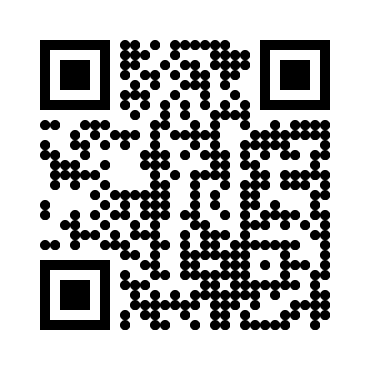
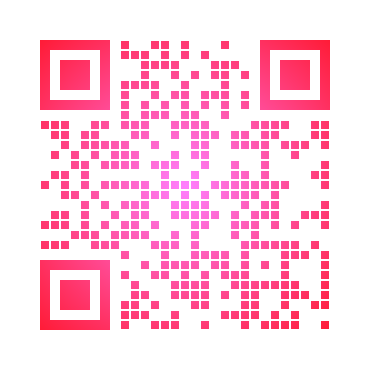
color qrcode

diff --git a/qr_code_color.py b/qr_code_color.py
@@ -1,0 +1,51 @@
+"""
+Just an quick implementation for a fully private QR code generator.
+"""
+
+import qrcode
+from string import punctuation
+
+qr = qrcode.QRCode(
+    version=1,
+    error_correction=qrcode.constants.ERROR_CORRECT_L,
+    box_size=10,
+    border=4,
+)
+
+print('Text to QR-tify:')
+input_data = input()
+qr.add_data(input_data)
+qr.make(fit=True)
+print('select colors:\n(1)QR Code Color\n(2)Background color')
+
+
+
+colors = ['pink','orange','red','blue','green','grey','black','white','mediumvioletred','tomato','brown','mediumseagreen','darkslategray','indigo','darksalmon','cyan','palevioletred','darkcyan','firebrick','darkolivegreen','forestgreen','darkslateblue','olive','greenyellow','lime','wheat','gold']
+available = ', '.join(sorted(colors)).upper()
+
+print(f'Color ideas: {available}.')
+
+print('\nSelect code color:')
+qr_color = input().lower()
+# while qr_color not in colors:
+    # qr_color = input()
+
+print('\nSelect background color:')
+qr_back = input().lower()
+# while qr_back not in colors:
+#     qr_back = input()
+
+# create img file
+img = qr.make_image(fill_color=qr_color, back_color=qr_back)
+
+# Save file -> name from QR input
+title = ''
+for el in input_data[:50]:
+    if el not in punctuation:
+        if not el.isspace():
+            title+=el
+        else:
+            title+='_'
+
+# Save QR code
+img.save(f'{title[:5]}.png')

diff --git a/generate_qr.py b/generate_qr.py
@@ -8,7 +8,7 @@ from qrcode.image.styles.colormasks import RadialGradiantColorMask
 
 
 #Defines if the QR code is gonna be colorized or not.
-def wants_color() -> bool:
+def   wants_color() -> bool:
   wc = input('''
 Do you want to colorize your QR code?
 1. Yes
@@ -23,14 +23,7 @@ Do you want to colorize your QR code?
     print("Choose a VALID option.\n")
     wc = wants_color()
 
-#Color mask
-def colorized():
-  if wants_color():
-    color=RadialGradiantColorMask(center_color=center_color(), edge_color=edge_color())
-    return color
-  else:
-    nocolor=RadialGradiantColorMask(center_color=(0, 0, 0), edge_color=(0, 0, 0))
-    return nocolor
+
 
 #If colorized, defines the CENTER color
 def center_color():
@@ -43,6 +36,17 @@ def edge_color():
   edge = colorchooser.askcolor(title='Choose border color')
   edge = edge[0]
   return edge
+
+
+#Color mask
+def colorized():
+  if wants_color():
+    color=RadialGradiantColorMask(center_color=center_color(), edge_color=edge_color())
+    return color
+  else:
+    nocolor=RadialGradiantColorMask(center_color=(0, 0, 0), edge_color=(0, 0, 0))
+    return nocolor
+
 
 #Chooses the QR code style.
 def choose_qr_style():
@@ -86,4 +90,7 @@ def save_qr(img):
     imgnumber += 1
   img.save(f'QR{str(imgnumber)}.png')
   print(f'\nGenerated QR{imgnumber}.png on {os.getcwd()}')
+
+
+
 

diff --git a/main.py b/main.py
@@ -15,7 +15,7 @@ Choose an option:
   if choose == 1:
     shortener(url)
   elif choose == 2:
-    save_qr(gen_qr(url))
+      save_qr(gen_qr(url))
   else:
     print('Choose a VALID option')
     choose= main()
